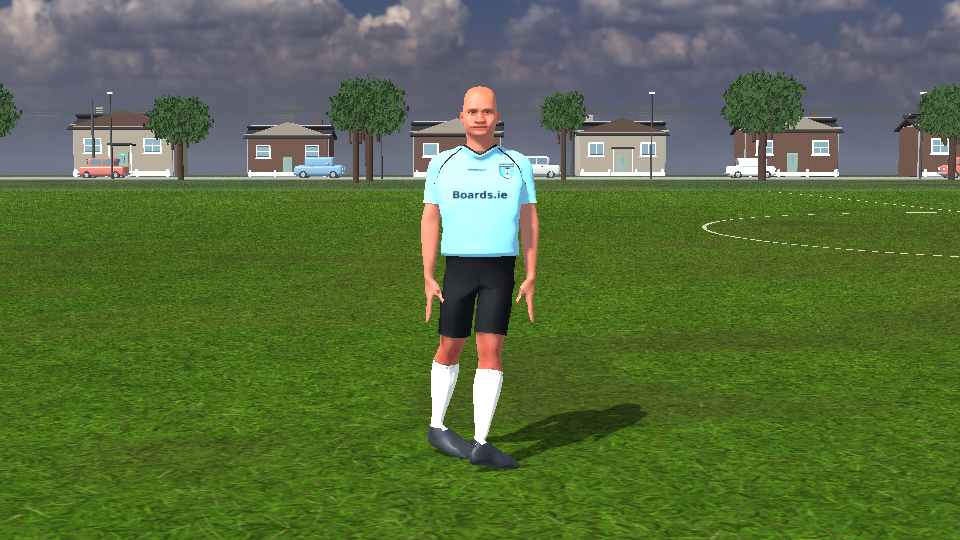
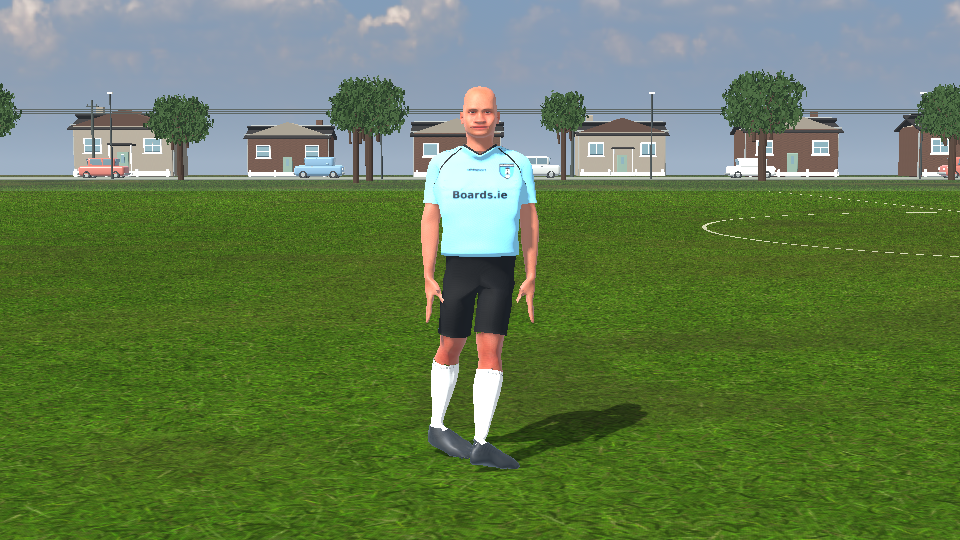
Lighten Beechlawn pitch-side preview sky

Changed region(s): [[0.0, 0.0, 1.0, 0.3259], [0.5, 0.8593, 0.5312, 0.8889]]

diff --git a/games/beechlawn_rovers/docs/art_briefs/pitch_review_stage/brief.md b/games/beechlawn_rovers/docs/art_briefs/pitch_review_stage/brief.md
@@ -4,6 +4,8 @@ The earlier Web asset-review fixture omitted Kilmore Drive scenery and used a le
 
 The review scene now assembles the existing static Kilmore Drive park, the match pitch surface and its faded line mesh on both Web and desktop. The player stands off the centre-line paint. A low perspective camera keeps the grass, park edge, houses and trees in frame. `clean=1` hides diagnostic text for gallery captures. `lighting=soft` uses real, softer daylight and avoids the artificial shade-caster patch on the ground. These are presentation changes to the isolated roster review, not new gameplay or surveyed venue geometry.
 
+The first pitch-side captures revealed an overly dark blue sky in the portrait view. The review now makes a local copy of the photographed sky material and selectively lifts its dark values toward a lighter blue-grey daylight. The match sky shader gains an opt-in control that defaults to zero, so normal match weather remains unchanged.
+
 The nine PNGs here are actual 960×540 Godot Compatibility/WebGL captures of the roster profiles using `software=1&clean=1&pose=idle&frame=2&lighting=soft`. They replace the floating-background images in the published screenshot gallery. Historical material/pose diagnostics remain in their original evidence folders; those still serve art comparison but are no longer used as current player previews.
 
 The scene uses the shared starting head and current kit construction. Individual face likeness, goalkeeper gloves and a convincing save animation are still open. Native M1 appearance and performance remain untested.

diff --git a/games/beechlawn_rovers/docs/backlog.md b/games/beechlawn_rovers/docs/backlog.md
@@ -638,8 +638,9 @@ goals, fouls, offside, cards, substitutions, half-time and full-time.
 - [ ] **BR-022 — Character and kit production**
   - 2026-10-21 pitch-side preview correction: Web and desktop roster reviews
     now use the Kilmore Drive park, match pitch surface, faded markings and
-    low perspective cameras. Current gallery images show players standing on
-    the pitch; the isolated cloud/sky fixture is retained only as historical
+    low perspective cameras. The preview sky is locally lifted to a lighter
+    daylight; match weather remains unchanged. Current gallery images show
+    players standing on the pitch; the old fixture is retained only as historical
     diagnostic evidence. See `art_briefs/pitch_review_stage/brief.md`. This
     does not close goalkeeper gloves, individual likeness, save motion or
     native M1 acceptance. BR-022 remains in progress (22/25).

diff --git a/games/beechlawn_rovers/docs/release_notes.md b/games/beechlawn_rovers/docs/release_notes.md
@@ -4,7 +4,9 @@ Pitch-side player previews (21 October 2026):
   portrait views. Web gallery captures show footballers on the pitch instead
   of against a sky-only backdrop.
 - A clean capture mode hides diagnostic text; soft daylight keeps real
-  shadows without an artificial ground shadow. This changes presentation,
+  shadows without an artificial ground shadow. A lighter blue-grey sky in
+  these portraits corrects the overly dark blue source; match weather keeps
+  its existing settings. This changes presentation,
   not match physics. BR-022 (22/25) remains open for gloves, individual
   likeness, save motion and native M1 review.
 
